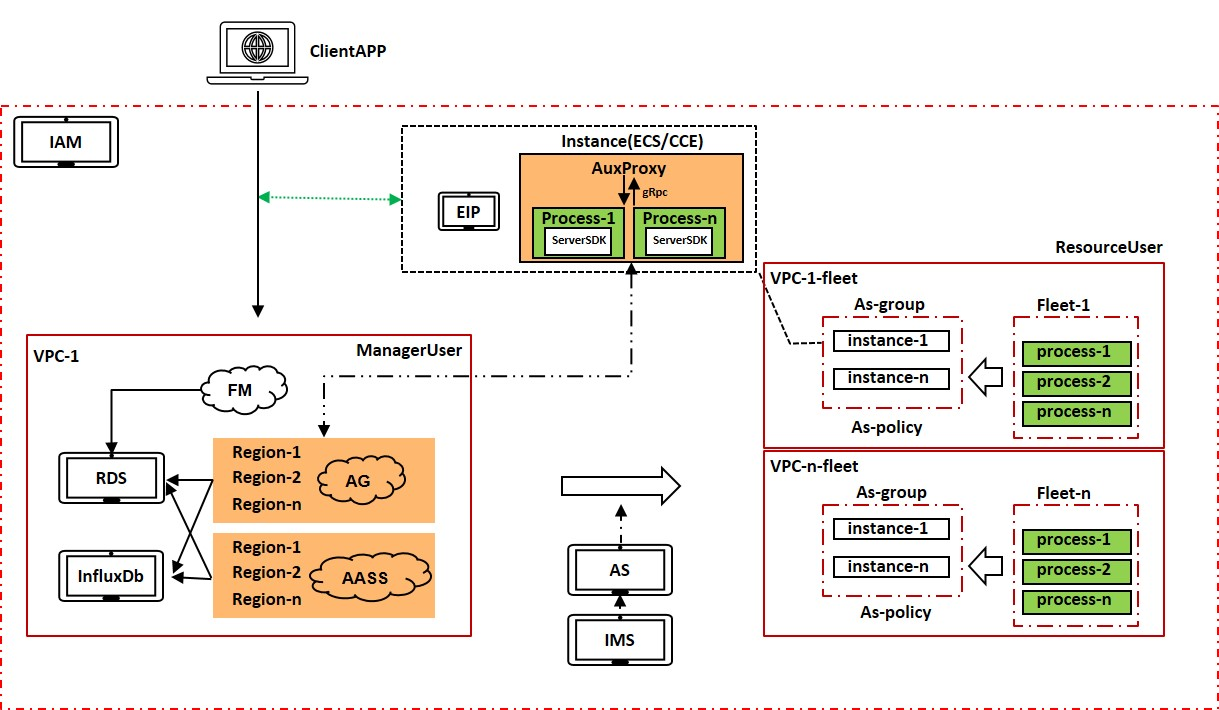
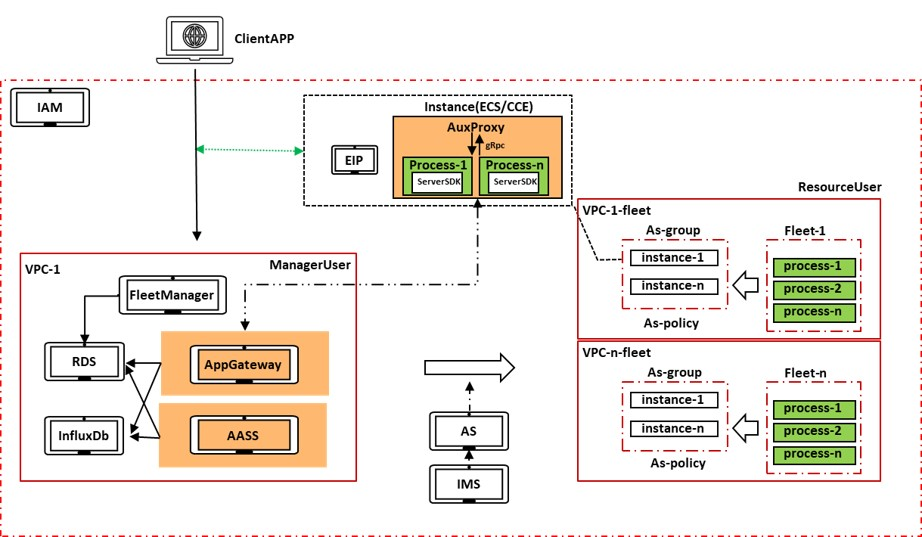
更新部署文档
Match-id-c5cc529739181073bd56165e9c8fbaf25e6f73d5

diff --git a/tools/gcm_dec_enc/gcm_dec_enc.go b/tools/gcm_dec_enc/gcm_dec_enc.go
@@ -8,8 +8,10 @@ import (
 )
 
 const (
-	key   = "mTqBnYoyhQm8xOkRFkaUU7X2"
-	nonce = "0xCWIOTotifzJMnD"
+	// aes-gcm加密的24位秘钥
+	key   = "************************"
+	// aes-gcm加密的16位初始向量
+	nonce = "****************"
 )
 
 func AESGCMEncrypt(plaintextStr string) (string, error) {

diff --git a/demo/go/fake-server/main.go b/demo/go/fake-server/main.go
@@ -15,12 +15,12 @@
 package main
 
 import (
+	"C"
 	"fake-server/api"
 	"fake-server/gsemanager"
 	"os"
 	"os/signal"
 	"syscall"
-	"C"
 )
 
 func startGrpcServer() int {
@@ -52,5 +52,5 @@ func main() {
 	case <-sigChan:
 		os.Exit(1)
 	}
-	
+
 }

diff --git a/README.md b/README.md
@@ -2,12 +2,14 @@
 ---
 ## 简介
 
-`MetaSpace`是一个服务端应用托管平台，支持灵活的服务器伸缩、灰度发布、就近接入、跨地域容灾等多种特性，帮助开发者快速构建稳定、低延时的服务端应用，兼容所有`gRPC`支持的服务框架的部署与运行。
+`MetaSpace`是一个服务端应用托管平台，包含四个服务组件(`Fleetmanager`/`AppGateway`/`AASS`/`AuxProxy`)，可以实现应用的托管、托管应用所需资源的弹性伸缩、应用进程的资源调度管理、应用的灰度发布，多`region`部署时可以实现用户的就近接入，减少时延，以及服务资源的跨地域容灾。可以帮助开发者快速构建稳定、低延时的多人游戏的部署环境，并节省大量的运维成本，支持支持`Unreal`、`Unity`引擎，`C#`、`C++`以及`gRPC`支持的任何语言的`server`框架部署和运行。
+
 
 ## 逻辑架构
 <img src="./img/architecture.jpg" width="80%">
 
 MetaSpace平台由四个服务组件组成：
++ [Console](https://gitee.com/HuaweiCloudDeveloper/huaweicloud-solution-metaspace-console): 为运维人员提供一个端到端的运维平台，提供了重要指标监控、fleet管理、应用打包、灰度发布以及基本的信息配置等功能
 + [FleetManager](https://gitee.com/HuaweiCloudDeveloper/huaweicloud-solution-metaspace-fleetmanager): 负责应用进程的全句话动态部署及管理，支持配置动态部署策略，基于成本或时延优化应用分布，负责弹性伸缩策略的配置和服务端会话、客户端会话与应用包的管理，服务端应用的灰度发布等
 + [AppGateway](https://gitee.com/HuaweiCloudDeveloper/huaweicloud-solution-metaspace-appgateway): 负责应用进程、会话与客户端连接的管理，通过与`AuxProxy`通信获得应用进程信息，决策进程资源的调度
 + [AASS](https://gitee.com/HuaweiCloudDeveloper/huaweicloud-solution-metaspace-aass): 负责弹性伸缩组和弹性伸缩策略的管理与执行，以及服务端应用资源的监控，调用华为云`AS`(弹性伸缩服务)实现资源的弹性伸缩
@@ -17,7 +19,7 @@ MetaSpace平台由四个服务组件组成：
 
     |-- huaweicloud-solution-metaspace
         |-- demo
-        |   |-- go                  -- go语言的服务单SDK Demo
+        |   |-- go                  -- go语言的服务SDK Demo
         |-- doc
         |   |-- api                 -- api技术文档
         |   |-- build               -- 测试环境部署指导
@@ -28,7 +30,7 @@ MetaSpace平台由四个服务组件组成：
         |   |-- vpc_peering         -- vpc之间创建对等连接工具
 ## 服务端SDK-Demo
 1. 提供了`go`语言的服务端`SDK Demo`，可以与`Metaspace`平台进行无缝对接
-2. 提供了`C#`语言的开发者对接指南，详见 `doc/developer`
+2. 提供了`C#`语言的开发者对接指南，详见 [doc/developer](/doc/developer/developer_guide.md)
 
 ## API技术文档
 提供了`fleetmanager`/`appgateway`/`aass`的API技术文档的`Yaml`文件，可以在[swagger](https://editor.swagger.io/)中导入查看，

diff --git a/doc/developer/developer_guide.md b/doc/developer/developer_guide.md
@@ -10,7 +10,7 @@
 
 ## 接口对接
 接口对接分为两部分，一部分是租户管理面与MetaSpace服务的交互（通过RESTful API交互），一部分是与租户托管应用与MetaSpace服务的交互（通过集成SDK交互）整体流程如下：
-<img src="./../../img/developer.jpg" width="80%">
+<img src="/img/developer.jpg" width="80%">
 
 ### 租户管理面与metaspace服务的交互接口说明：
 详细接口信息看`API`接口文档，下面对接口做一些说明：
